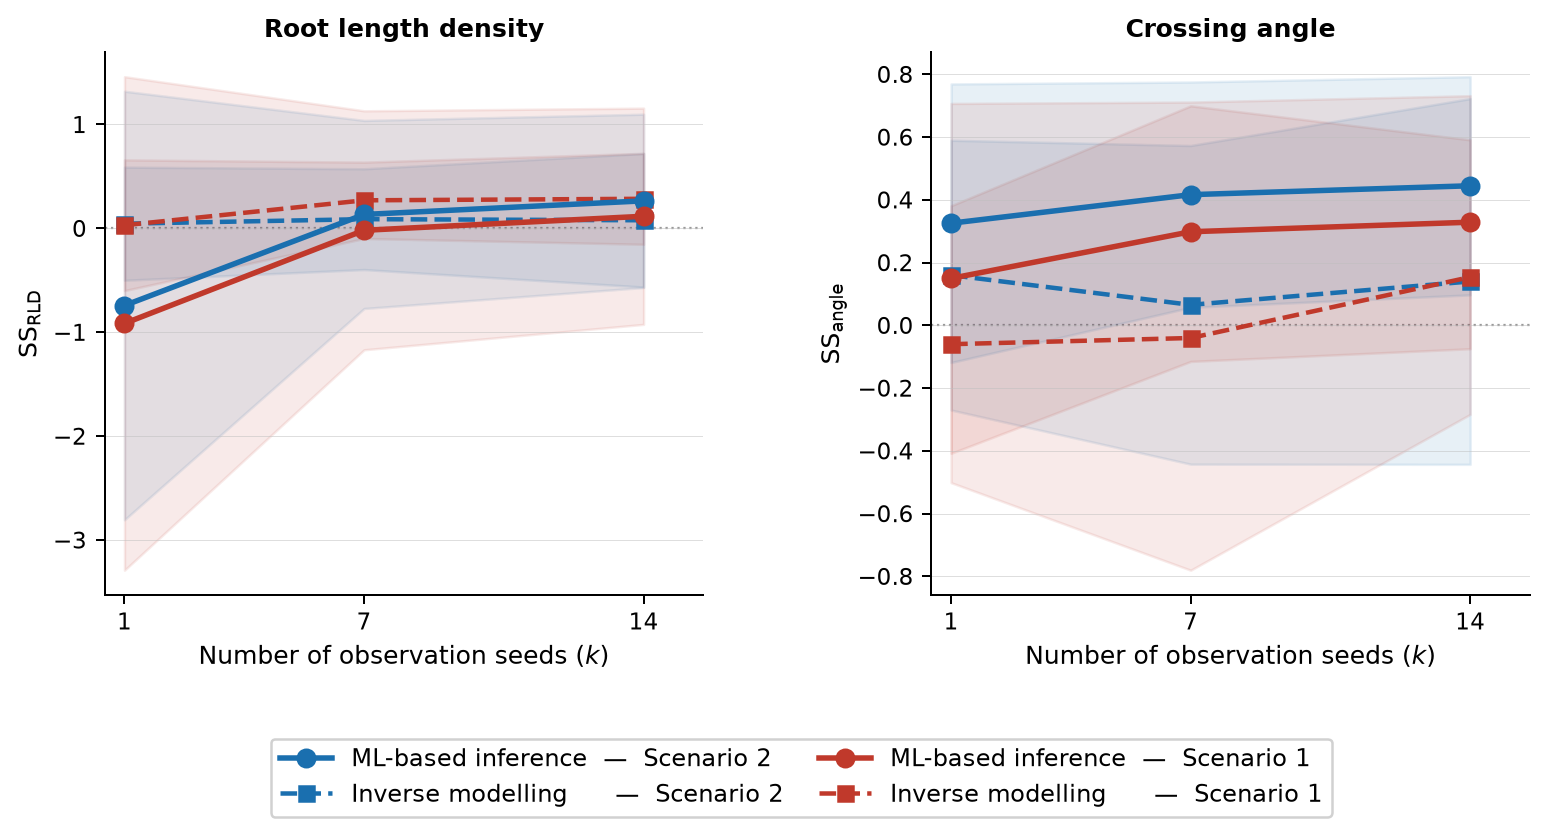
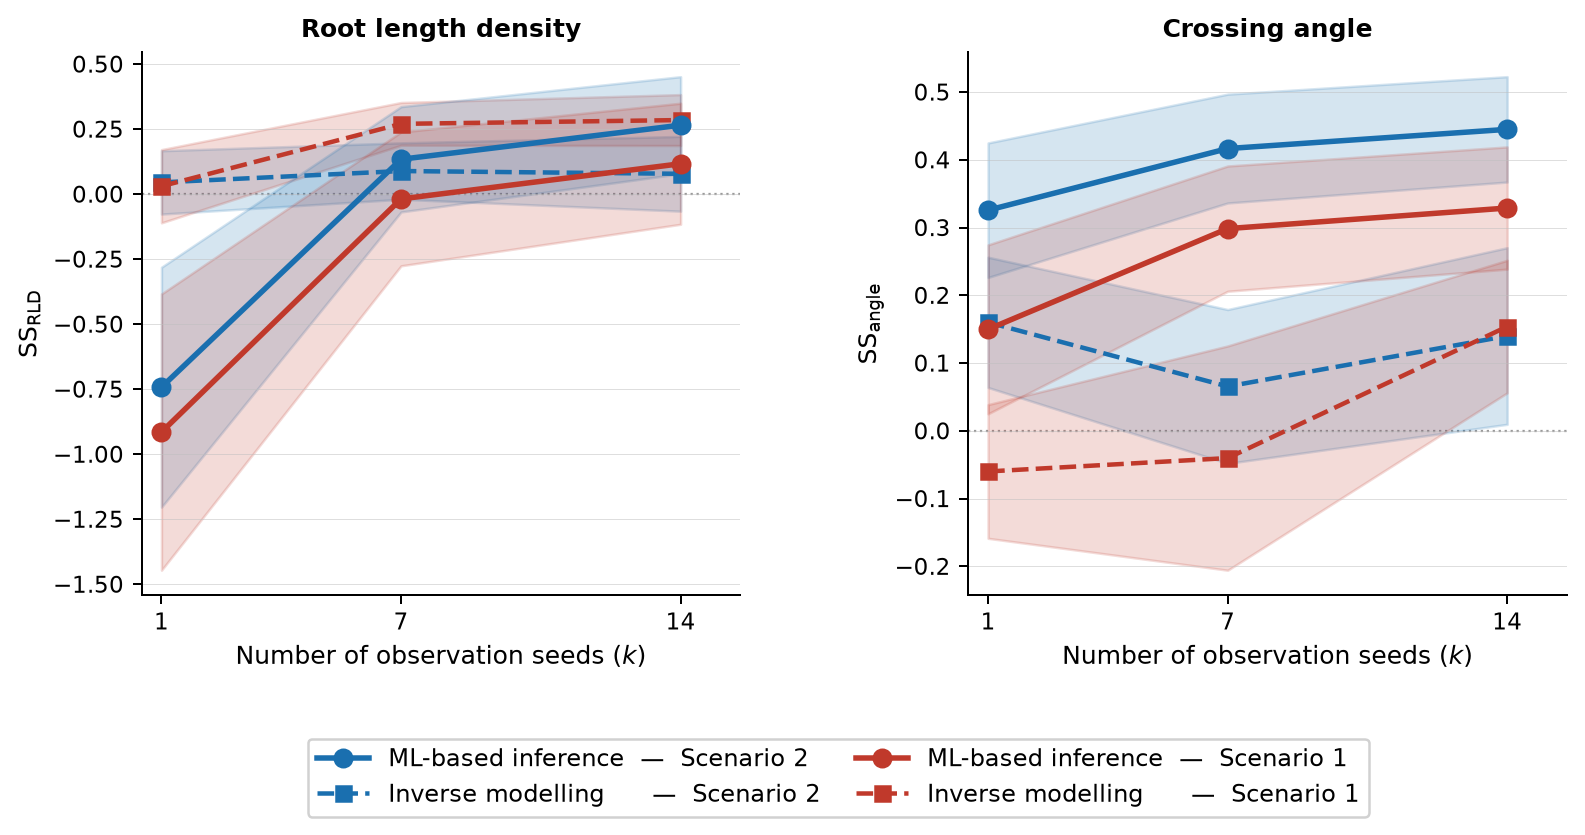
Switch Fig 5 bands from SD to SE (SD/sqrt(20))
SD bands (±0.4–1.2) obscured the mean trends; SE bands are ~4.5x
narrower and show precision of the mean estimate more clearly.

diff --git a/publication/scripts/plot_fig5_structural_k_effect.py b/publication/scripts/plot_fig5_structural_k_effect.py
@@ -4,7 +4,7 @@ plot_fig5_structural_k_effect.py
 Figure 5 — Effect of observation seed count (k) on 3D structural recovery.
 Two panels: SS_rld, SS_angle.
 Four lines: inverse modelling S2/S1, ML-based inference S2/S1.
-Shaded bands show ±1 SD across the 20 test cases.
+Shaded bands show ±1 SE (SD/√20) across the 20 test cases.
 
 Run from project root:
   python3 publication/scripts/plot_fig5_structural_k_effect.py
@@ -85,11 +85,11 @@ for ax, met in zip(axes, METRICS):
     for method in ["CMA-ES", "TabICL-MS"]:
         for scen in SCENARIOS:
             y   = np.array(means[scen][method][met])
-            sd  = np.array(stds[scen][method][met])
+            se  = np.array(stds[scen][method][met]) / np.sqrt(20)
             st  = STYLE[(scen, method)]
             z   = 3 if method == "TabICL-MS" else 2
-            ax.fill_between(x, y - sd, y + sd,
-                            color=st["color"], alpha=0.10, zorder=1)
+            ax.fill_between(x, y - se, y + se,
+                            color=st["color"], alpha=0.18, zorder=1)
             ax.plot(x, y, zorder=z, **st)
 
     ax.set_xticks(K_VALS)
